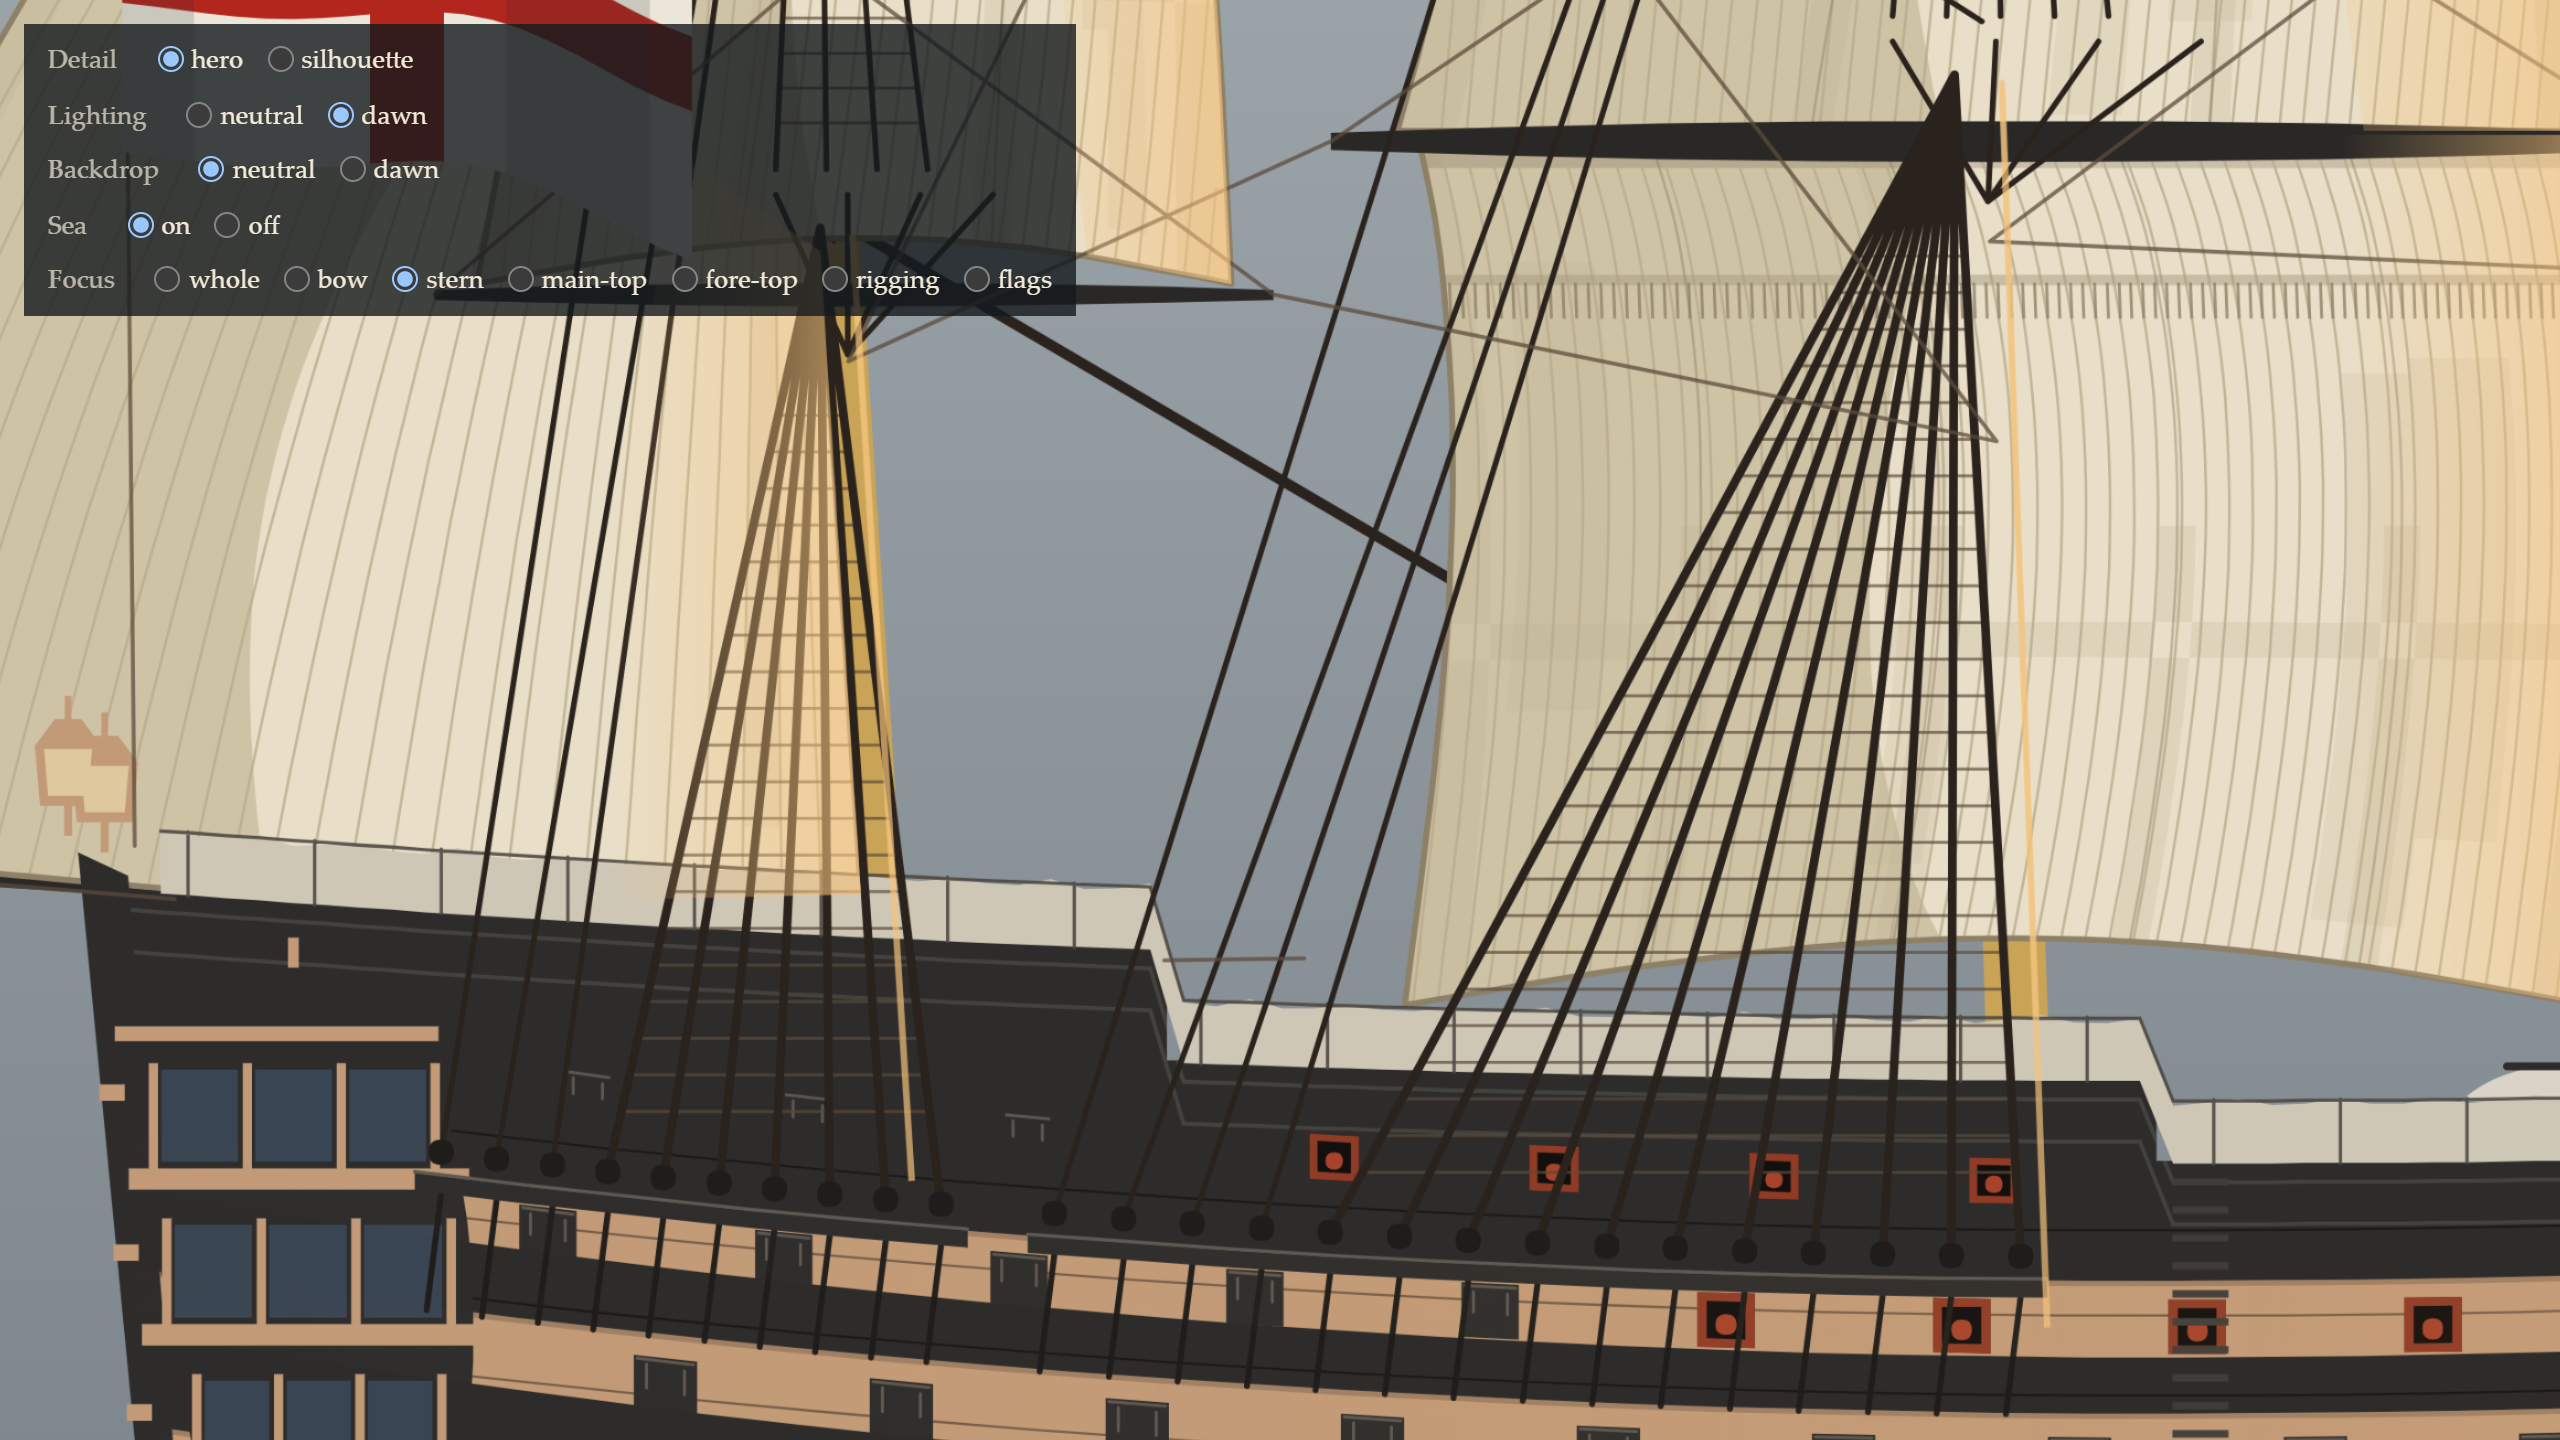
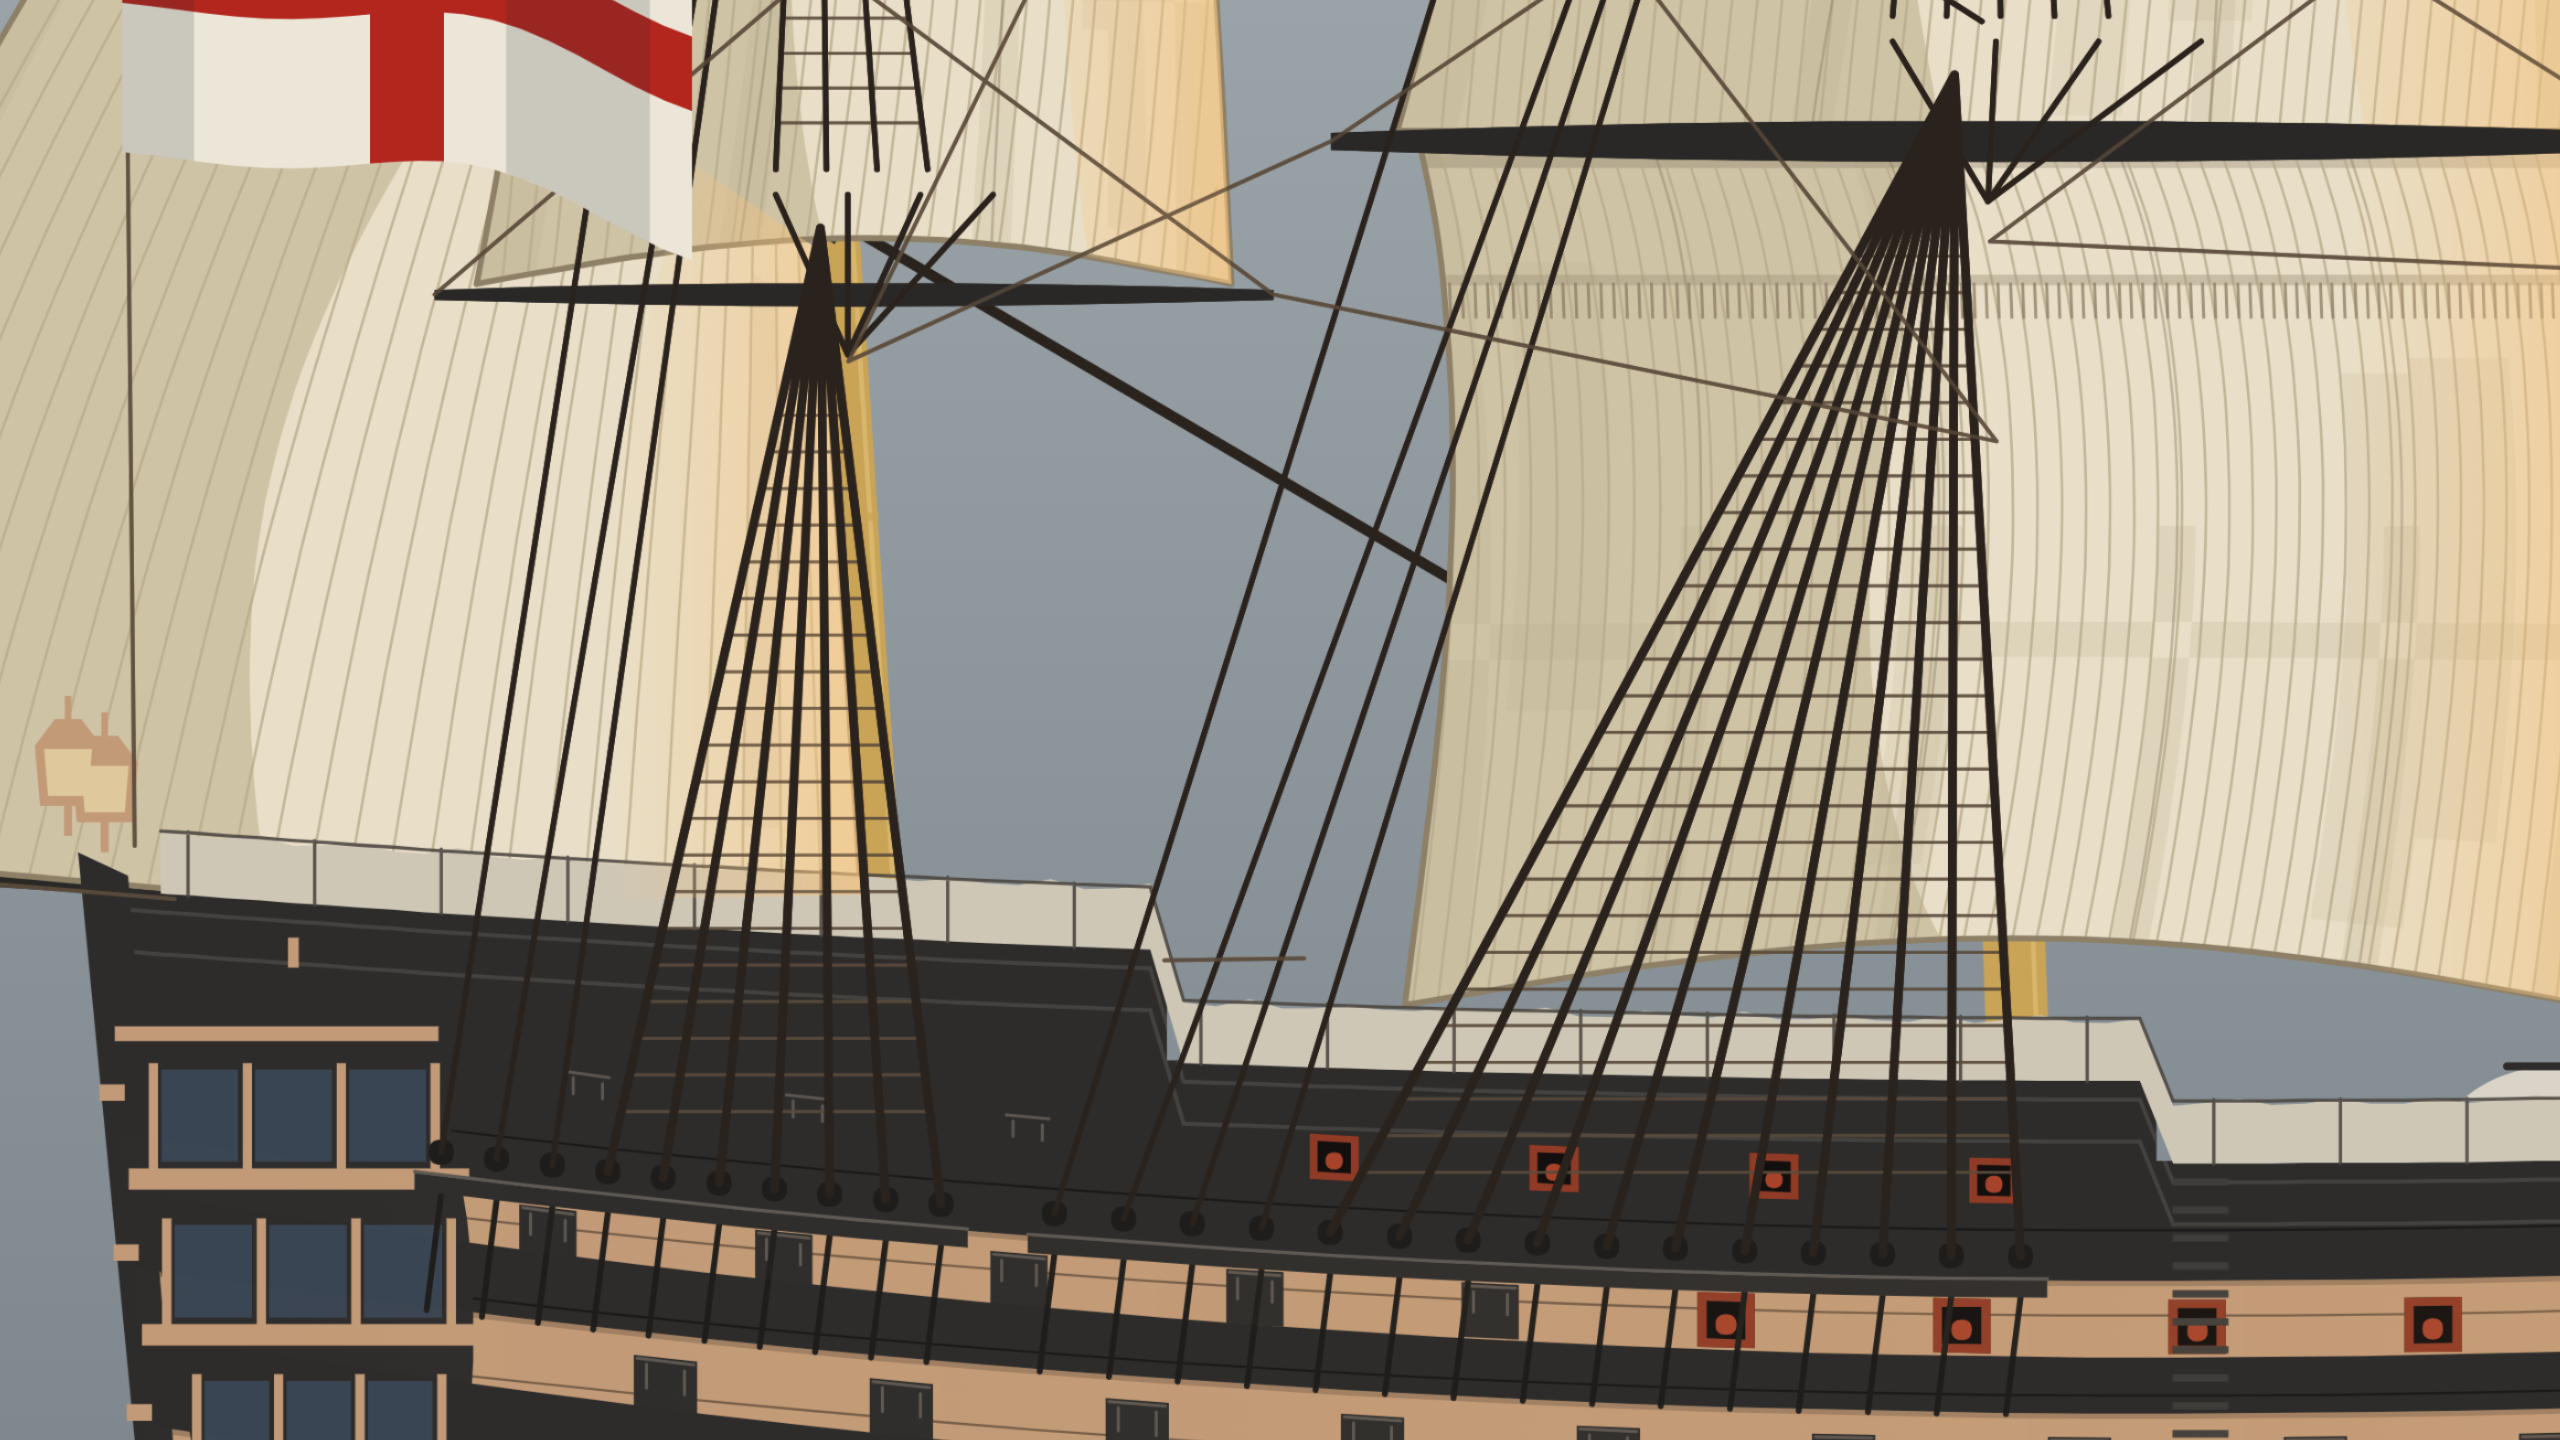
Regenerate the screenshots and close out the checklist
The screenshots in docs/screenshots/scene-01 now show the polished
scene, the fallback with Victory and the lab close-ups without the
control panel. npm run check is green (10 tests); the perf notes in
decisions.md record the load-time long tasks and how a busy GPU skews
the headless numbers.

diff --git a/docs/progress.md b/docs/progress.md
@@ -6,7 +6,7 @@ Legend: `[x]` done, `[~]` built but not yet reviewed or finished, `[ ]` not star
 
 ## Session log
 - Session 1 (24 October 2026): phases 0–2, the ship engine and a first pass of the whole scene (environment, choreography, text). It ran out of usage during phase 5 tuning; the retuning it left uncommitted was finished and committed as `bd0c849`. The research for `docs/history-notes.md` was done (three research tracks, one fact-checked), but the session stopped before the file was written, so it did not exist in the repository.
-- Session 2 (25 October 2026): resumed from the repository and the previous session's research files.
+- Session 2 (25 October 2026): resumed from the repository and the previous session's research files. Wrote `docs/history-notes.md` (and kept the full research in `docs/research/`), ran a review round on screenshots and close-ups, fixed what was off, finished phases 5–7. Interrupted once when the editor closed; resumed from the repository again.
 
 ## 0. Setup
 - [x] Node 24.15.0 and git 2.55 checked; git user configured
@@ -17,10 +17,10 @@ Legend: `[x]` done, `[~]` built but not yet reviewed or finished, `[ ]` not star
 - [x] git initialised on `main`; first commit
 
 ## 1. Research and design plan
-- [~] Victory 1805 hull, rig, flags and the dawn setting researched (done in session 1); `docs/history-notes.md` still to be written from that research
+- [x] Victory 1805 hull, rig, flags and the dawn setting researched; `docs/history-notes.md` written, full research in `docs/research/`
 - [x] GSAP skills and current docs (GSAP 3.15, Lenis 1.3, Next 16.4, Tailwind 4.3, Biome 2.5, Playwright 1.64): findings applied, see decisions.md
 - [x] Design plan in `docs/decisions.md`: palette, type roles, layout sketch, layer stack, choreography table
-- [ ] Plan reviewed against the brief and the avoid-list
+- [x] Plan reviewed against the brief and the avoid-list (decisions.md, "Review against the brief and the avoid-list")
 
 ## 2. Foundations
 - [x] `src/lib/gsap.ts`, `SmoothScroll` (Lenis on the GSAP ticker, prioritised; keyboard guard)
@@ -32,32 +32,32 @@ Legend: `[x]` done, `[~]` built but not yet reviewed or finished, `[ ]` not star
 ## 3. The ship
 - [x] `ShipSpec` types, seeded variation, geometry functions
 - [x] `VICTORY_1805` spec with the research figures (16/15/15 ports, 2015 paint survey colours, Steel 1794 spars, main truck 60.2 m, four topsail reef bands)
-- [~] Hero rendering (hull, ports, chequer, copper, masts, sails, rigging, flags, details): built, needs a review round
+- [x] Hero rendering (hull, ports, chequer, copper, masts, sails, rigging, flags, details); mast highlights behind the sails, warm light on canvas only
 - [x] Silhouette mode
 - [x] `/lab/ship` (noindex) with detail, lighting, backdrop and close-up controls
-- [~] Visual iteration rounds with screenshots and close-up crops (some rounds in session 1; final critique pending)
+- [x] Visual iteration rounds with screenshots and close-up crops at device scale 2
 
-## 4. Environment (first pass built)
-- [~] Sky (night and dawn gradients, stars, moon, procedural cloud strands), sun and glow
-- [~] Sea strips (tiling SVG, two colour variants), front strip, sun reflection
-- [~] Haze canvases (back and front), glitter canvas
-- [~] Distant fleets (33 enemy in four groups, enemy lights, 3 British astern)
+## 4. Environment
+- [x] Sky (night and dawn gradients, stars, moon, procedural cloud strands), sun and glow
+- [x] Sea strips (tiling SVG, two colour variants), front strip, sun reflection
+- [x] Haze canvases (back and front), glitter canvas
+- [x] Distant fleets (33 enemy in four groups, enemy lights, 3 British astern in two tones)
 
-## 5. Choreography and text (first pass built)
-- [~] Master scroll timeline (300vh pin), idle loops with pause logic (in view and tab visibility)
-- [~] SplitText title, copy, scrim, scroll cue, chapter marker
+## 5. Choreography and text
+- [x] Master scroll timeline (300vh pin), idle loops with pause logic (in view and tab visibility)
+- [x] SplitText title (never wraps), copy, scrim, scroll cue, chapter marker
 - [x] Scene 2 placeholder
 
 ## 6. Polish and performance
-- [ ] Profile; long tasks; element budgets
-- [ ] Easing and timing
-- [ ] Avoid-list walk-through
+- [x] Profile; long tasks; element budgets (no long tasks during scroll; about 600 SVG elements in the scene, 270 in the hero)
+- [x] Easing and timing (checked frame by frame at p = 0.1, 0.25, 0.4, 0.5, 0.62, 0.75, 0.85, 0.95, 1)
+- [x] Avoid-list walk-through
 
 ## 7. Verification and report
-- [ ] Fallback shows a static composition with Victory (currently text on a gradient only)
-- [ ] Playwright: SVG element count test; screenshot spec (`docs` project)
-- [ ] `npm run check` green
-- [ ] Screenshots in `docs/screenshots/scene-01/`, reviewed
-- [ ] Scroll-through video in `test-results/`
-- [ ] Docs current; everything committed
-- [ ] Final report (Russian)
+- [x] Fallback shows a static composition with Victory in dawn light (client-mounted)
+- [x] Playwright: SVG element count test; screenshot spec (`docs` project)
+- [x] `npm run check` green
+- [x] Screenshots in `docs/screenshots/scene-01/`, reviewed
+- [x] Scroll-through video in `test-results/` (headless video looks choppier than real hardware)
+- [x] Docs current (README rewritten); everything committed
+- [x] Final report (Russian)

diff --git a/docs/decisions.md b/docs/decisions.md
@@ -153,7 +153,8 @@ The title's letters assemble rather than fade-and-slide: each letter starts loos
 
 ### Performance (headless Chromium on the owner's GPU family, Intel Arc, through Playwright's new headless mode)
 - No long tasks during the scripted scroll; long animation frames during scroll had no blocking time.
-- At load there are a few long tasks (about 60–110 ms): hydration, building the timelines, the SplitText split and the one-time haze sprites. They happen before the first scroll; the brief's budget is for scrolling.
+- At load there are a few long tasks (about 60–190 ms across runs): hydration, building the timelines, the SplitText split and the one-time haze sprites. They happen before the first scroll; the brief's budget is for scrolling.
+- The numbers are sensitive to what else uses the GPU. One run made while a desktop browser played video on the same machine recorded over 200 long tasks during the scroll and timed out encoding its video; the same code on a quiet machine recorded none, twice. Real smoothness has to be confirmed on the owner's laptop with `?debug`.
 - About 600 SVG elements in the scene (budget 2,500), about 270 in the hero ship (budget 1,200), tested in `tests/e2e/scene.spec.ts`.
 
 ## Review against the brief and the avoid-list (session 2)
